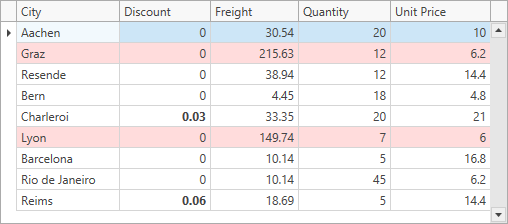
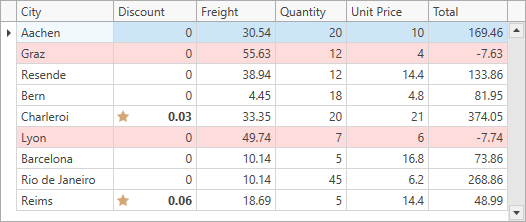
update

diff --git a/CS/GridMVVMConditionalFormattingRules/MainWindow.xaml b/CS/GridMVVMConditionalFormattingRules/MainWindow.xaml
@@ -6,8 +6,9 @@
         xmlns:local="clr-namespace:GridMVVMConditionalFormattingRules"
         xmlns:dxg="http://schemas.devexpress.com/winfx/2008/xaml/grid" 
         xmlns:dxci="http://schemas.devexpress.com/winfx/2008/xaml/core/internal" 
-        xmlns:dxmvvm="http://schemas.devexpress.com/winfx/2008/xaml/mvvm"
-    x:Class="GridMVVMConditionalFormattingRules.MainWindow"
+        xmlns:dxmvvm="http://schemas.devexpress.com/winfx/2008/xaml/mvvm" 
+        xmlns:dx="http://schemas.devexpress.com/winfx/2008/xaml/core"
+        x:Class="GridMVVMConditionalFormattingRules.MainWindow"
         mc:Ignorable="d" Title="MainWindow" Height="450" Width="800">
     <Window.DataContext>
         <local:ViewModel/>
@@ -17,36 +18,55 @@
             <dxmvvm:MapItem Source="Less" Target="Less"/>
             <dxmvvm:MapItem Source="Greater" Target="Greater"/>
         </dxmvvm:ObjectToObjectConverter>
-        <DataTemplate x:Key="FontFormat">
+        <DataTemplate x:Key="BackgroundTemplate">
             <ContentControl>
                 <dxg:FormatCondition 
-                        ApplyToRow="{Binding Path=(dxci:DependencyObjectExtensions.DataContext).ApplyToRow, RelativeSource={RelativeSource Self}}"
-                        ValueRule="{Binding Path=(dxci:DependencyObjectExtensions.DataContext).Rule, RelativeSource={RelativeSource Self}, Converter={StaticResource FormatRuleConverter}}"
-                        Value1="{Binding Path=(dxci:DependencyObjectExtensions.DataContext).Value, RelativeSource={RelativeSource Self}}"
-                        FieldName="{Binding Path=(dxci:DependencyObjectExtensions.DataContext).FieldName, RelativeSource={RelativeSource Self}}"
-                        PredefinedFormatName="BoldText"/>
+                    FieldName="{Binding Path=(dxci:DependencyObjectExtensions.DataContext).FieldName, RelativeSource={RelativeSource Self}}"
+                    ValueRule="{Binding Path=(dxci:DependencyObjectExtensions.DataContext).ValueRule, RelativeSource={RelativeSource Self}, Converter={StaticResource FormatRuleConverter}}"
+                    Value1="{Binding Path=(dxci:DependencyObjectExtensions.DataContext).Value, RelativeSource={RelativeSource Self}}"
+                    ApplyToRow="{Binding Path=(dxci:DependencyObjectExtensions.DataContext).ApplyToRow, RelativeSource={RelativeSource Self}}"
+                    PredefinedFormatName="LightRedFill"/>
             </ContentControl>
         </DataTemplate>
-        <DataTemplate x:Key="BackgroundFormat">
+        <DataTemplate x:Key="FontTemplate">
             <ContentControl>
                 <dxg:FormatCondition 
-                        ApplyToRow="{Binding Path=(dxci:DependencyObjectExtensions.DataContext).ApplyToRow, RelativeSource={RelativeSource Self}}"
-                        ValueRule="{Binding Path=(dxci:DependencyObjectExtensions.DataContext).Rule, RelativeSource={RelativeSource Self}, Converter={StaticResource FormatRuleConverter}}"
-                        Value1="{Binding Path=(dxci:DependencyObjectExtensions.DataContext).Value, RelativeSource={RelativeSource Self}}"
-                        FieldName="{Binding Path=(dxci:DependencyObjectExtensions.DataContext).FieldName, RelativeSource={RelativeSource Self}}"
-                        PredefinedFormatName="LightRedFill"/>
+                    FieldName="{Binding Path=(dxci:DependencyObjectExtensions.DataContext).FieldName, RelativeSource={RelativeSource Self}}"
+                    ValueRule="{Binding Path=(dxci:DependencyObjectExtensions.DataContext).ValueRule, RelativeSource={RelativeSource Self}, Converter={StaticResource FormatRuleConverter}}"
+                    Value1="{Binding Path=(dxci:DependencyObjectExtensions.DataContext).Value, RelativeSource={RelativeSource Self}}"
+                    ApplyToRow="{Binding Path=(dxci:DependencyObjectExtensions.DataContext).ApplyToRow, RelativeSource={RelativeSource Self}}"
+                    PredefinedFormatName="BoldText"/>
+            </ContentControl>
+        </DataTemplate>
+        <DataTemplate x:Key="IconTemplate">
+            <ContentControl>
+                <dxg:FormatCondition 
+                    FieldName="{Binding Path=(dxci:DependencyObjectExtensions.DataContext).FieldName, RelativeSource={RelativeSource Self}}"
+                    ValueRule="{Binding Path=(dxci:DependencyObjectExtensions.DataContext).ValueRule, RelativeSource={RelativeSource Self}, Converter={StaticResource FormatRuleConverter}}"
+                    Value1="{Binding Path=(dxci:DependencyObjectExtensions.DataContext).Value, RelativeSource={RelativeSource Self}}"
+                    ApplyToRow="{Binding Path=(dxci:DependencyObjectExtensions.DataContext).ApplyToRow, RelativeSource={RelativeSource Self}}">
+                    <dxg:FormatCondition.Format>
+                        <dx:Format Icon="{dx:IconSet Name=Stars3_1}"/>
+                    </dxg:FormatCondition.Format>
+                </dxg:FormatCondition>
             </ContentControl>
         </DataTemplate>
         <local:FormatConditionSelector x:Key="FormatConditionSelector" 
-                                       BackgroundTemplate="{StaticResource BackgroundFormat}" 
-                                       FontTemplate="{StaticResource FontFormat}"/>
+                                       BackgroundTemplate="{StaticResource BackgroundTemplate}" 
+                                       FontTemplate="{StaticResource FontTemplate}" 
+                                       IconTemplate="{StaticResource IconTemplate}"/>
     </Window.Resources>
-    <dxg:GridControl AutoGenerateColumns="AddNew" EnableSmartColumnsGeneration="True" ItemsSource="{Binding Orders}">
+    <dxg:GridControl ItemsSource="{Binding Orders}">
         <dxg:GridControl.View>
             <dxg:TableView FormatConditionsSource="{Binding Rules}" 
                            FormatConditionGeneratorTemplateSelector="{StaticResource FormatConditionSelector}"/>
         </dxg:GridControl.View>
-        <dxg:GridColumn FieldName="Total" UnboundType="Decimal" Visible="False"
+        <dxg:GridColumn FieldName="City" IsSmart="True"/>
+        <dxg:GridColumn FieldName="Discount" IsSmart="True"/>
+        <dxg:GridColumn FieldName="Freight" IsSmart="True"/>
+        <dxg:GridColumn FieldName="Quantity" IsSmart="True"/>
+        <dxg:GridColumn FieldName="UnitPrice" IsSmart="True"/>
+        <dxg:GridColumn FieldName="Total" UnboundType="Decimal"
                         UnboundExpression="([UnitPrice] * [Quantity] * (1 - [Discount]) - [Freight])"/>
     </dxg:GridControl>
 </Window>

diff --git a/CS/GridMVVMConditionalFormattingRules/OrdersViewModel.cs b/CS/GridMVVMConditionalFormattingRules/OrdersViewModel.cs
@@ -3,27 +3,16 @@ using System.Collections.Generic;
 using System.Collections.ObjectModel;
 
 namespace GridMVVMConditionalFormattingRules {
-    public enum FormattingType { Font, Background }
+    public enum FormattingType { Background, Font, Icon }
     public enum ConditionRule { Less, Greater }
 
     public class ViewModel : ViewModelBase {
         public ViewModel() {
             Orders = OrdersDataModel.GetOrders();
             Rules = new ObservableCollection<FormattingRule>() {
-                new FormattingRule(
-                    "Total",
-                    ConditionRule.Less,
-                    0,
-                    true,
-                    FormattingType.Background
-                ),
-                new FormattingRule(
-                    nameof(Order.Discount),
-                    ConditionRule.Greater,
-                    0,
-                    false,
-                    FormattingType.Font
-                )
+                new FormattingRule("Total", ConditionRule.Less, 0, true, FormattingType.Background),
+                new FormattingRule( nameof(Order.Discount), ConditionRule.Greater, 0, false, FormattingType.Font),
+                new FormattingRule( nameof(Order.Discount), ConditionRule.Greater, 0, false, FormattingType.Icon)
             };
         }
         public List<Order> Orders { get; }
@@ -31,15 +20,15 @@ namespace GridMVVMConditionalFormattingRules {
     }
 
     public class FormattingRule : BindableBase {
-        public FormattingRule(string fieldname, ConditionRule rule, int value, bool applytorow, FormattingType type) {
+        public FormattingRule(string fieldname, ConditionRule valuerule, int value, bool applytorow, FormattingType type) {
             FieldName = fieldname;
-            Rule = rule;
+            ValueRule = valuerule;
             Value = value;
             ApplyToRow = applytorow;
             Type = type;
         }
         public virtual string FieldName { get; }
-        public virtual ConditionRule Rule { get; }
+        public virtual ConditionRule ValueRule { get; }
         public virtual int Value { get; }
         public virtual bool ApplyToRow { get; }
         public virtual FormattingType Type { get; }

diff --git a/CS/GridMVVMConditionalFormattingRules/FormatConditionSelector.cs b/CS/GridMVVMConditionalFormattingRules/FormatConditionSelector.cs
@@ -6,6 +6,7 @@ namespace GridMVVMConditionalFormattingRules {
 
         public DataTemplate BackgroundTemplate { get; set; }
         public DataTemplate FontTemplate { get; set; }
+        public DataTemplate IconTemplate { get; set; }
 
         public override DataTemplate SelectTemplate(object item, DependencyObject container) {
             FormattingRule rule = item as FormattingRule;
@@ -15,6 +16,8 @@ namespace GridMVVMConditionalFormattingRules {
                     return FontTemplate;
                 case FormattingType.Background:
                     return BackgroundTemplate;
+                case FormattingType.Icon:
+                    return IconTemplate;
             }
             return null;
         }
